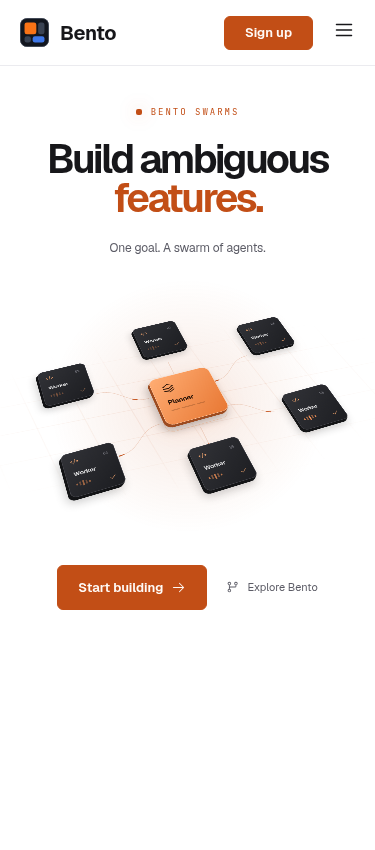
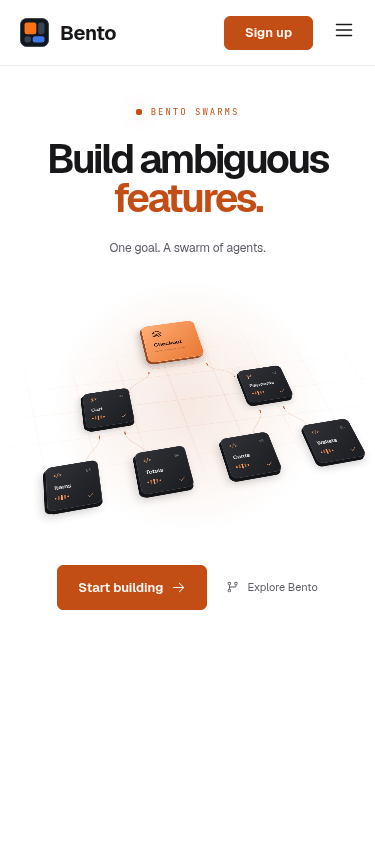
Animate swarms as a three-level feature tree

Changed region(s): [[0.088, 0.3671, 0.968, 0.6118]]

diff --git a/app/swarms/swarms.css b/app/swarms/swarms.css
@@ -10,8 +10,8 @@
 .swarm-heading > p { margin: 22px 0 0; color: var(--text-muted); font-size: 14px; letter-spacing: -.01em; }
 .swarm-stage { position: relative; width: min(100%, 1060px); height: 420px; margin: -12px auto 0; perspective: 1300px; isolation: isolate; }
 .swarm-halo { position: absolute; inset: 4% 10% 1%; background: radial-gradient(ellipse, color-mix(in srgb, var(--brand) 13%, transparent), transparent 65%); }
-.swarm-grid { position: absolute; left: 50%; top: 50%; width: 760px; height: 400px; transform: translate(-50%, -50%) rotateX(57deg) rotateZ(-20deg); background-image: linear-gradient(color-mix(in srgb, var(--brand) 9%, transparent) 1px, transparent 1px), linear-gradient(90deg, color-mix(in srgb, var(--brand) 9%, transparent) 1px, transparent 1px); background-size: 48px 48px; mask-image: radial-gradient(ellipse, black 10%, transparent 70%); }
-.swarm-world { position: absolute; left: 50%; top: 50%; width: 0; height: 0; transform-style: preserve-3d; transform: scale(.9) rotateX(43deg) rotateZ(-20deg); }
+.swarm-grid { position: absolute; left: 50%; top: 50%; width: 760px; height: 400px; transform: translate(-50%, -50%) rotateX(57deg) rotateZ(-12deg); background-image: linear-gradient(color-mix(in srgb, var(--brand) 9%, transparent) 1px, transparent 1px), linear-gradient(90deg, color-mix(in srgb, var(--brand) 9%, transparent) 1px, transparent 1px); background-size: 48px 48px; mask-image: radial-gradient(ellipse, black 10%, transparent 70%); }
+.swarm-world { position: absolute; left: 50%; top: 50%; width: 0; height: 0; transform-style: preserve-3d; transform: scale(.84) rotateX(43deg) rotateZ(-12deg); }
 .swarm-connections { position: absolute; left: -430px; top: -300px; width: 860px; height: 600px; transform: translateZ(0); overflow: visible; }
 .swarm-edge-track { stroke: var(--brand); stroke-width: 1.2; opacity: .24; }
 .swarm-edge-signal { stroke: var(--brand); stroke-width: 2.5; stroke-dasharray: 8 92; stroke-linecap: round; opacity: .9; }
@@ -40,16 +40,26 @@
 .swarm-actions > a { display: inline-flex; align-items: center; gap: 8px; }
 .swarm-actions > a:last-child { color: var(--text-muted); font-size: 12px; }
 @media (prefers-reduced-motion: no-preference) {
-  .swarm-agent { animation: swarm-spawn 9s cubic-bezier(.22,1,.36,1) infinite both; animation-delay: calc(var(--order) * .28s); }
-  .swarm-branch { animation: swarm-branch-reveal 9s ease infinite both; animation-delay: calc(var(--order) * .28s); }
-  .swarm-edge-track { stroke-dasharray: 100; animation: swarm-draw 9s ease infinite both; animation-delay: calc(var(--order) * .28s); }
-  .swarm-edge-signal { animation: swarm-signal 2.8s linear infinite; animation-delay: calc(var(--order) * .28s); }
+  .swarm-agent { animation: swarm-spawn 9s cubic-bezier(.22,1,.36,1) infinite both; }
+  .swarm-branch { animation: swarm-branch-reveal 9s ease infinite both; }
+  .swarm-edge-track { stroke-dasharray: 100; animation: swarm-draw 9s ease infinite both; }
+  .swarm-edge-signal { animation: swarm-signal 2.8s linear infinite; }
   .swarm-core-mark { animation: swarm-plan 9s ease infinite; }
   @keyframes swarm-spawn {
-    0%, 8% { opacity: 0; transform: translate3d(0, 0, 0) scale(.3); }
+    0%, 8% { opacity: 0; transform: translate3d(var(--from-x), var(--from-y), 0) scale(.3); }
     26%, 82% { opacity: 1; transform: translate3d(var(--x), var(--y), 22px) scale(1); }
     94%, 100% { opacity: 0; transform: translate3d(var(--x), var(--y), 22px) scale(.92); }
   }
+  .swarm-agent[data-depth="2"] { animation-name: swarm-leaf-spawn; }
+  .swarm-branch[data-depth="2"] { animation-name: swarm-leaf-reveal; }
+  .swarm-branch[data-depth="2"] .swarm-edge-track { animation-name: swarm-leaf-draw; }
+  @keyframes swarm-leaf-spawn {
+    0%, 30% { opacity: 0; transform: translate3d(var(--from-x), var(--from-y), 0) scale(.3); }
+    52%, 82% { opacity: 1; transform: translate3d(var(--x), var(--y), 22px) scale(1); }
+    94%, 100% { opacity: 0; transform: translate3d(var(--x), var(--y), 22px) scale(.92); }
+  }
+  @keyframes swarm-leaf-reveal { 0%, 34%, 94%, 100% { opacity: 0; } 52%, 82% { opacity: 1; } }
+  @keyframes swarm-leaf-draw { 0%, 34% { stroke-dashoffset: 100; } 54%, 100% { stroke-dashoffset: 0; } }
   @keyframes swarm-branch-reveal { 0%, 12%, 94%, 100% { opacity: 0; } 26%, 82% { opacity: 1; } }
   @keyframes swarm-draw { 0%, 12% { stroke-dashoffset: 100; } 30%, 100% { stroke-dashoffset: 0; } }
   @keyframes swarm-plan { 0%, 8% { opacity: .4; } 18%, 82% { opacity: 1; } 100% { opacity: .4; } }
@@ -62,7 +72,7 @@
 @media (max-width: 800px) {
   .swarm-experience { padding-top: 40px; }
   .swarm-stage { height: 350px; }
-  .swarm-world { transform: scale(.75) rotateX(43deg) rotateZ(-20deg); }
+  .swarm-world { transform: scale(.67) rotateX(43deg) rotateZ(-12deg); }
 }
 @media (max-width: 520px) {
   .swarm-experience { padding: 40px 16px 32px; }
@@ -70,12 +80,12 @@
   .swarm-eyebrow { margin-bottom: 22px; font-size: 9px; }
   .swarm-heading > p { font-size: 12px; margin-top: 20px; }
   .swarm-stage { height: 290px; width: calc(100% + 32px); margin-left: -16px; margin-top: 0; }
-  .swarm-world { transform: scale(.47) rotateX(43deg) rotateZ(-20deg); }
+  .swarm-world { transform: scale(.44) rotateX(43deg) rotateZ(-12deg); }
   .swarm-grid { width: 500px; height: 300px; }
   .swarm-actions { gap: 18px; margin-top: 18px; }
   .swarm-actions > a:last-child { font-size: 11px; }
 }
 @media (max-width: 360px) {
-  .swarm-world { transform: scale(.4) rotateX(43deg) rotateZ(-20deg); }
+  .swarm-world { transform: scale(.37) rotateX(43deg) rotateZ(-12deg); }
   .swarm-heading h1 { font-size: 34px; }
 }

diff --git a/components/swarms/swarm-hero.tsx b/components/swarms/swarm-hero.tsx
@@ -12,7 +12,15 @@ const headlines = [
   { title: "Ship the whole initiative.", lines: ["Ship the whole", "initiative."] },
 ] as const;
 
-const workers = [[-235, -120], [0, -190], [235, -120], [-235, 120], [0, 190], [235, 120]] as const;
+const root = { id: "checkout", position: [0, -190] as const };
+const features = [
+  { id: "cart", label: "Cart", parent: root.id, position: [-180, 0], origin: root.position, depth: 1 },
+  { id: "payments", label: "Payments", parent: root.id, position: [180, 0], origin: root.position, depth: 1 },
+  { id: "items", label: "Items", parent: "cart", position: [-270, 190], origin: [-180, 0], depth: 2 },
+  { id: "totals", label: "Totals", parent: "cart", position: [-90, 190], origin: [-180, 0], depth: 2 },
+  { id: "cards", label: "Cards", parent: "payments", position: [90, 190], origin: [180, 0], depth: 2 },
+  { id: "wallets", label: "Wallets", parent: "payments", position: [270, 190], origin: [180, 0], depth: 2 },
+] as const;
 
 function connection(from: readonly number[], to: readonly number[], fromCore: boolean, toCore: boolean) {
   const dx = to[0] - from[0];
@@ -23,7 +31,7 @@ function connection(from: readonly number[], to: readonly number[], fromCore: bo
   const end = (toCore ? 75 : 58) / span;
   const x1 = from[0] + dx * start, y1 = from[1] + dy * start;
   const x2 = to[0] - dx * end, y2 = to[1] - dy * end;
-  return `M${x1} ${y1} C${(x1 + x2) / 2} ${y1} ${(x1 + x2) / 2} ${y2} ${x2} ${y2}`;
+  return `M${x1} ${y1} C${x1} ${(y1 + y2) / 2} ${x2} ${(y1 + y2) / 2} ${x2} ${y2}`;
 }
 
 export function SwarmHero() {
@@ -54,26 +62,26 @@ export function SwarmHero() {
       </h1>
       <p>One goal. A swarm of agents.</p>
     </div>
-    <div className="swarm-stage" role="img" aria-label="A planner agent spawns six worker agents, delegating parallel tasks through connected branches.">
+    <div className="swarm-stage" role="img" aria-label="A feature tree: Checkout branches into Cart and Payments. Cart branches into Items and Totals; Payments branches into Cards and Wallets. Agents expand the tree one level at a time.">
       <div className="swarm-halo" aria-hidden="true" />
       <div className="swarm-grid" aria-hidden="true" />
       <div className="swarm-world" aria-hidden="true">
         <svg className="swarm-connections" viewBox="-430 -300 860 600" fill="none">
-          {workers.map((position, index) => {
-            const path = connection([0, 0], position, true, false);
-            return <g className="swarm-branch" key={index} style={{ "--order": index } as CSSProperties}>
+          {features.map((feature, index) => {
+            const path = connection(feature.origin, feature.position, feature.depth === 1, false);
+            return <g className="swarm-branch" data-depth={feature.depth} data-parent={feature.parent} data-child={feature.id} key={feature.id} style={{ "--order": index } as CSSProperties}>
               <path className="swarm-edge-track" d={path} pathLength="100" />
               <path className="swarm-edge-signal" d={path} pathLength="100" />
             </g>;
           })}
         </svg>
-        <div className="swarm-core" style={{ "--x": "0px", "--y": "0px" } as CSSProperties}>
+        <div className="swarm-core" style={{ "--x": "0px", "--y": "-190px" } as CSSProperties}>
           <div className="swarm-core-floor" />
-          <div className="swarm-core-face"><div className="swarm-core-mark"><Stack size={29} /></div><strong>Planner</strong><div className="swarm-core-bars"><i /><i /><i /></div></div>
+          <div className="swarm-core-face"><div className="swarm-core-mark"><Stack size={29} /></div><strong>Checkout</strong><div className="swarm-core-bars"><i /><i /><i /></div></div>
         </div>
-        {workers.map((position, index) => <div className="swarm-agent" key={index} style={{ "--x": `${position[0]}px`, "--y": `${position[1]}px`, "--order": index } as CSSProperties}>
+        {features.map((feature, index) => <div className="swarm-agent" data-node={feature.id} data-depth={feature.depth} key={feature.id} style={{ "--x": `${feature.position[0]}px`, "--y": `${feature.position[1]}px`, "--from-x": `${feature.origin[0]}px`, "--from-y": `${feature.origin[1]}px`, "--order": index } as CSSProperties}>
           <div className="swarm-agent-shadow" />
-          <div className="swarm-agent-face"><div className="swarm-agent-top"><Code size={16} /><span>0{index + 1}</span></div><strong>Worker</strong><div className="swarm-agent-activity"><i /><i /><i /><i /><i /></div><Check className="swarm-agent-check" size={14} /></div>
+          <div className="swarm-agent-face"><div className="swarm-agent-top">{feature.depth === 1 ? <GitBranch size={16} /> : <Code size={16} />}<span>0{index + 1}</span></div><strong>{feature.label}</strong><div className="swarm-agent-activity"><i /><i /><i /><i /><i /></div><Check className="swarm-agent-check" size={14} /></div>
         </div>)}
       </div>
     </div>

diff --git a/e2e/swarms.spec.ts b/e2e/swarms.spec.ts
@@ -1,11 +1,11 @@
 import { test, expect } from "@playwright/test";
 
-test("one planner and six workers fit desktop and mobile", async ({ page }) => {
+test("a three-level feature tree fit desktop and mobile", async ({ page }) => {
   for (const width of [320, 375, 768, 1440]) {
     await page.setViewportSize({width, height: 1000});
     await page.goto("/swarms");
-    await expect(page.getByRole("img", {name: /planner agent spawns six worker agents/})).toBeVisible();
-    await expect(page.locator(".swarm-core")).toHaveText("Planner");
+    await expect(page.getByRole("img", {name: /A feature tree: Checkout branches/})).toBeVisible();
+    await expect(page.locator(".swarm-core")).toHaveText("Checkout");
     await expect(page.locator(".swarm-agent")).toHaveCount(6);
     await expect(page.locator(".swarm-controls")).toHaveCount(0);
     expect(await page.evaluate(() => document.documentElement.scrollWidth <= innerWidth)).toBe(true);
@@ -20,24 +20,35 @@ test("one planner and six workers fit desktop and mobile", async ({ page }) => {
   }
 });
 
-test("workers spawn out of the planner while headlines rotate independently", async ({ page }) => {
+test("features expand from their parents one level at a time", async ({ page }) => {
   await page.emulateMedia({reducedMotion: "no-preference"});
   await page.goto("/swarms");
-  const worker = page.locator(".swarm-agent").first();
-  const sample = async (time: number) => worker.evaluate((element, currentTime) => {
-    const animation = element.getAnimations().find(item => (item as CSSAnimation).animationName === "swarm-spawn")!;
-    animation.pause();
-    animation.currentTime = currentTime;
-    return {opacity: getComputedStyle(element).opacity, transform: getComputedStyle(element).transform};
-  }, time);
-  const initial = await sample(0);
-  const spawned = await sample(3000);
-  expect(initial.opacity).toBe("0");
-  expect(spawned.opacity).toBe("1");
-  expect(spawned.transform).not.toBe(initial.transform);
+  const sample = async (time: number) => {
+    await page.locator(".swarm-world").evaluate((element, currentTime) => {
+      element.getAnimations({subtree: true}).forEach(animation => {
+        animation.pause();
+        animation.currentTime = currentTime;
+      });
+    }, time);
+  };
+  await sample(0);
+  await expect(page.locator('[data-node="cart"]')).toHaveCSS("opacity", "0");
+  await sample(2600);
+  await expect(page.locator('[data-node="cart"]')).toHaveCSS("opacity", "1");
+  await expect(page.locator('[data-node="items"]')).toHaveCSS("opacity", "0");
+  await sample(5000);
+  for (const node of await page.locator(".swarm-agent").all()) {
+    await expect(node).toHaveCSS("opacity", "1");
+  }
+  const edges = await page.locator(".swarm-branch").evaluateAll(elements =>
+    elements.map(element => [element.getAttribute("data-parent"), element.getAttribute("data-child")]));
+  expect(edges).toEqual([
+    ["checkout", "cart"], ["checkout", "payments"],
+    ["cart", "items"], ["cart", "totals"],
+    ["payments", "cards"], ["payments", "wallets"],
+  ]);
   await expect(page.getByRole("heading", {level: 1})).toHaveAccessibleName("One-shot the migration.", {timeout: 12000});
-  await expect(page.locator(".swarm-core")).toHaveText("Planner");
-  await expect(page.locator(".swarm-agent")).toHaveCount(6);
+  await expect(page.locator(".swarm-core")).toHaveText("Checkout");
 });
 
 test("reduced motion shows the complete static swarm", async ({ page }) => {
